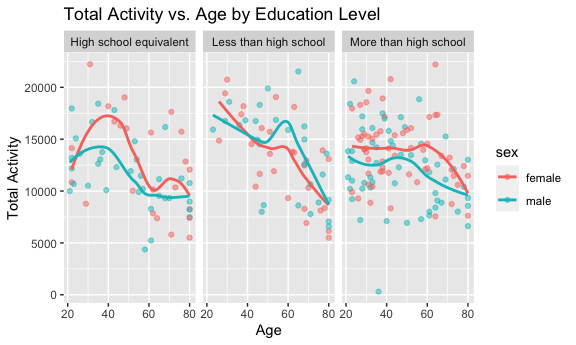
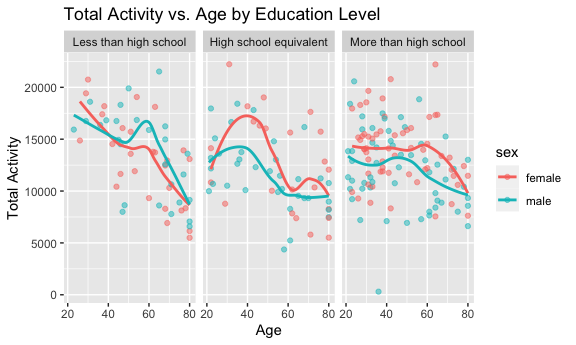
changed $

diff --git a/p8105_hw3_lz2949.md b/p8105_hw3_lz2949.md
@@ -160,8 +160,8 @@ brfss_df =
   filter(response == "Excellent" | response =="Very good" |response =="Good" |response =="Fair" |response =="Poor") 
 
 # order responses from poor to excellent
-order_c = c("Poor", "Fair", "Good", "Very good", "Excellent")
-ordered_brfss = brfss_df[order(factor(brfss_df$response, levels = order_c)),]
+ordered_brfss = brfss_df |>
+  mutate(response = factor(response, levels = c ("Poor", "Fair", "Good", "Very good", "Excellent")))
 ```
 
 In 2002/2010, which states were observed at 7 or more locations.
@@ -226,7 +226,7 @@ ny_df = ordered_brfss |>
   filter(state_name == "NY", year %in% c(2006, 2010)) 
 
 ny_df = transform(ny_df, year = as.character(year))
-ggplot(ny_df, aes(x = fct_inorder(response), y = data_value, fill = year)) + 
+ggplot(ny_df,aes( x = response, y = data_value, fill = year)) + 
   geom_boxplot() +
   facet_grid(.~year)+
   labs(
@@ -277,7 +277,8 @@ nhanes_df =
     ## ℹ Specify the column types or set `show_col_types = FALSE` to quiet this message.
 
 ``` r
-nhanes_df = nhanes_df[order(factor(nhanes_df$education, levels = c("Less than high school", "High school equivalent", "More than high school"))),] # rank education 
+nhanes_df = nhanes_df |>
+  mutate (education = factor(education, levels = c("Less than high school", "High school equivalent", "More than high school"))) # rank education 
 
 nhanes_accel = 
   read_csv("./data/nhanes_accel.csv") |>
@@ -316,14 +317,14 @@ kable(education_table, caption = "Sex and corresponding education level")
 
 | education              | female | male |
 |:-----------------------|-------:|-----:|
-| High school equivalent |     23 |   35 |
 | Less than high school  |     28 |   27 |
+| High school equivalent |     23 |   35 |
 | More than high school  |     59 |   56 |
 
 Sex and corresponding education level
 
 Comments: At high school equivalent, number of males is larger than
-female, there are 35 males and 23 females. For other two education
+female, there are 27 males and 28 females. For other two education
 levels, the number of males and females are similar.
 
 Create a visualization of the age distributions for men and women in
@@ -342,6 +343,9 @@ Comments: From the boxplot, at the education level ‘more than high
 school’, the median age of both sex is the lowest. For female, the
 median age is 41; for male, the median age is 43.5. At less than high
 school education, the female median age is 61 and the male age is 60.
+Generally speaking, higher education group tend to have lower median
+age; this may be attributed to trends such as increased access to
+education or changing social norms.
 
 ``` r
 m_nhanes= transform(m_nhanes, sum_nhanes = rowSums(m_nhanes[, 6:1445]))
